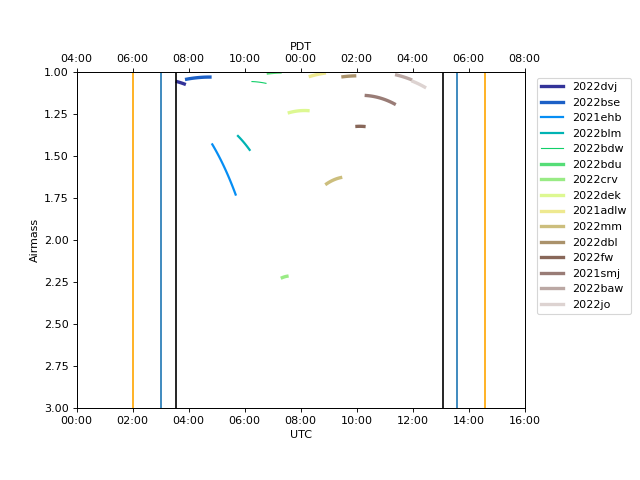
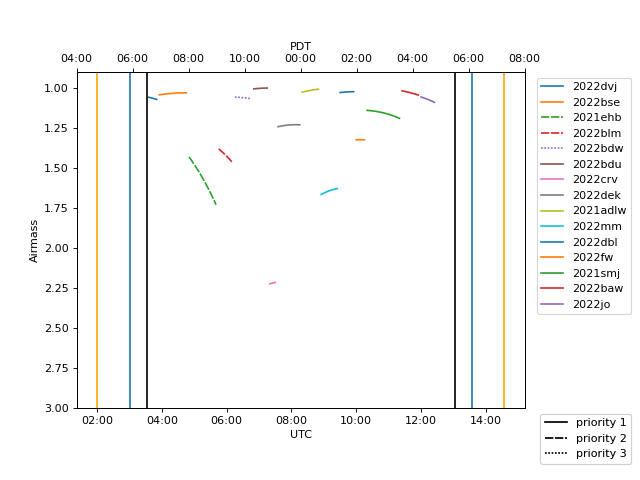
fixed argparse help

diff --git a/make_schedule.py b/make_schedule.py
@@ -216,6 +216,7 @@ def main():
 
     fig = plt.figure(figsize=(8, 6), dpi=80)
     ax = fig.add_axes([0.12,0.15,0.7,0.7])
+    style =["solid",(0,(5,1)),(0,(1,1))]
     for i,target in sched.iterrows():
         dt = target["end"] - target["start"]
         times = target["start"] + dt * np.linspace(0., 1., 100)-8
@@ -224,8 +225,9 @@ def main():
         coords = SkyCoord(radec,unit=(u.hourangle, u.deg))
         targetaltazs = coords.transform_to(frame)
         plottime = np.array([tt[3]+tt[4]/60.+tt[5]/60./60. for tt in times.to_value("ymdhms")])*u.hour
-        cmap = cm.get_cmap('terrain')
-        ax.plot(plottime, targetaltazs.secz,label=target["target"],color = cmap(i/len(sched)),linewidth=4-target['priority'])
+        cmap = cm.get_cmap('Dark2')
+        #ax.plot(plottime, targetaltazs.secz,label=target["target"],color = cmap(i/len(sched)),linestyle=style[target['priority']-1])
+        ax.plot(plottime, targetaltazs.secz,label=target["target"],linestyle=style[target['priority']-1])
     plt.axvline(x=sunsethour,color='orange')
     plt.axvline(x=sunrisehour,color='orange')
     plt.axvline(x=etw12hour)
@@ -241,8 +243,17 @@ def main():
     axtop.set_xticklabels(["%02d:00"%((x - 8)%12) for x in ax.get_xticks()])
     axtop.set_xlabel("PDT")
     ax.legend(bbox_to_anchor =(1.25, 1.0))
-    ax.set_ylim(3, 1)
+    ax.set_ylim(3, 0.9)
     ax.set_ylabel('Airmass')
+    plot_lines=[]
+    l1, = ax.plot(np.NaN,np.NaN, linestyle=style[0],color='black')
+    l2, = ax.plot(np.NaN,np.NaN, linestyle=style[1],color='black')
+    l3, = ax.plot(np.NaN,np.NaN, linestyle=style[2],color='black')
+
+    plot_lines.append([l1, l2, l3])
+
+    legend1 = plt.legend(plot_lines[0], ["priority 1", "priority 2", "priority 3"], bbox_to_anchor =(1.25, 0.0))
+    plt.gca().add_artist(legend1)
     plt.savefig(filename+'_Sched.png')
     plt.show()
 
